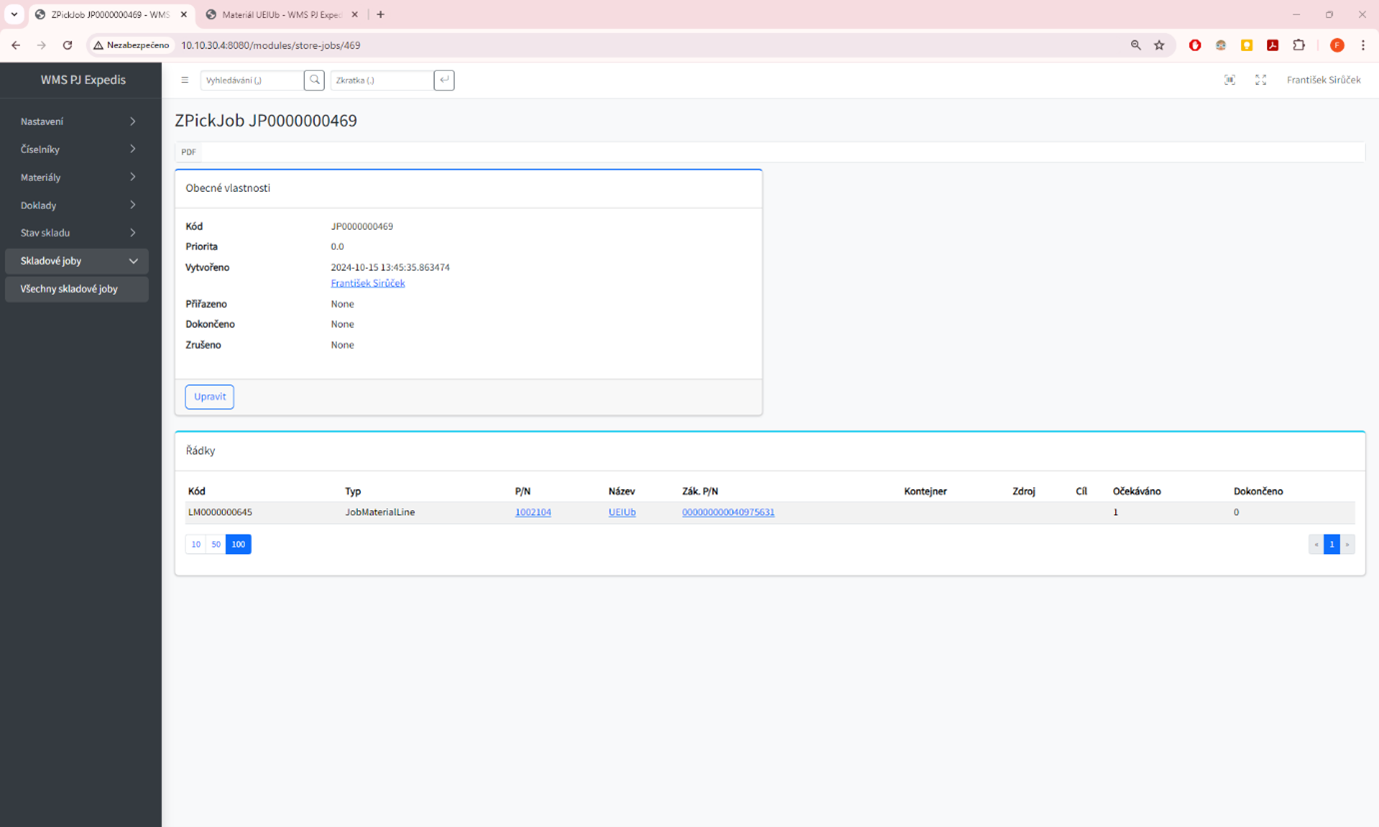
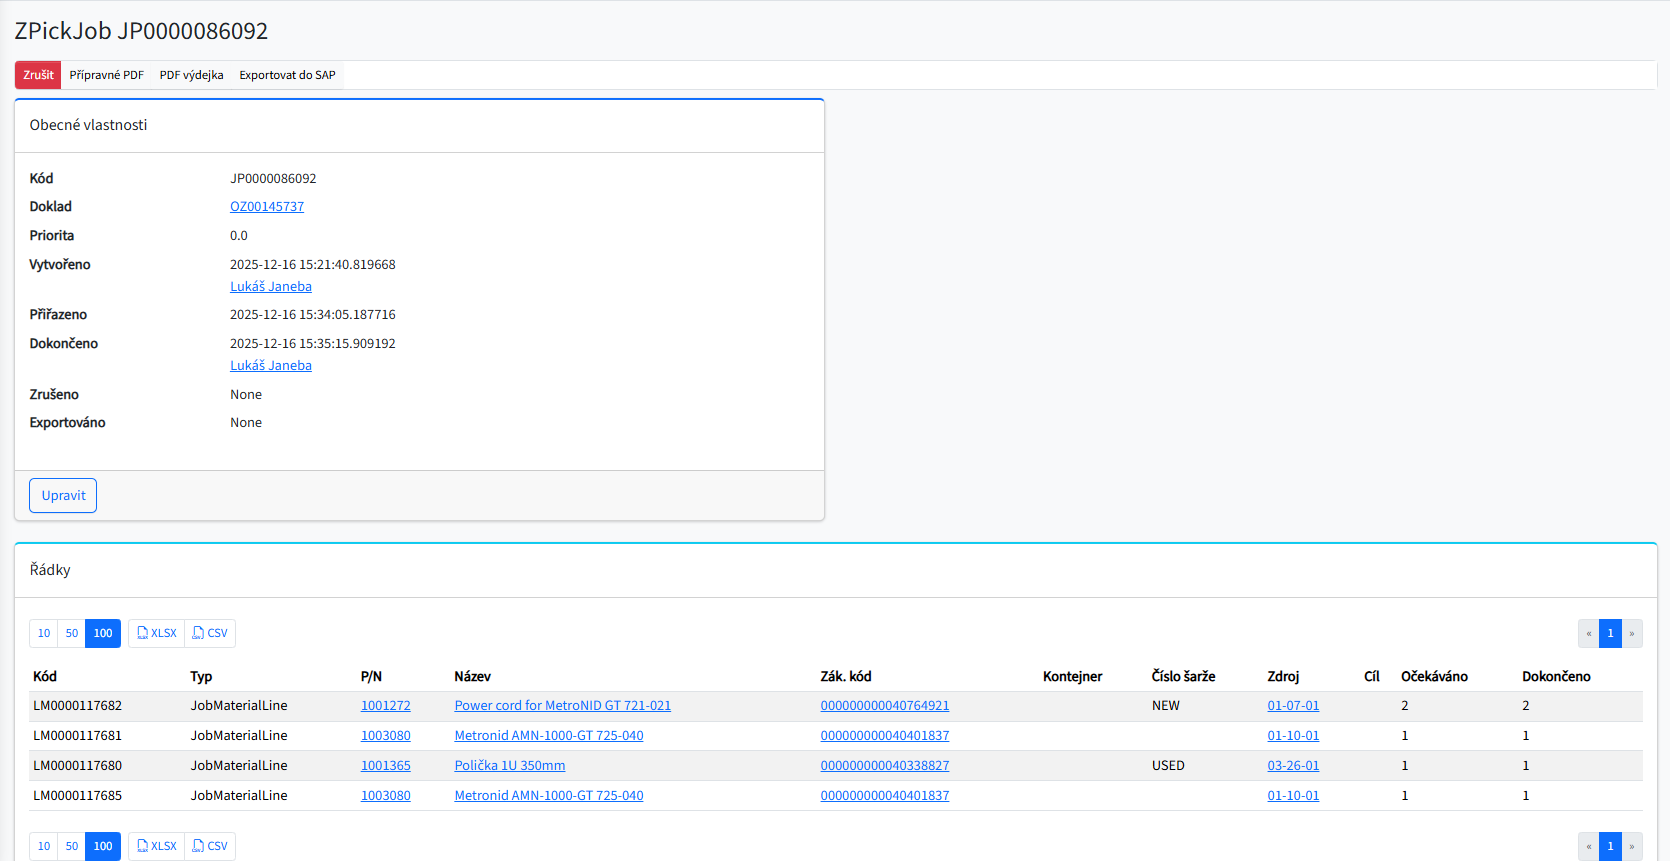
rozdělení výdejek na joby, upravy nad obj, upravy na joby

diff --git a/content/objednavky.md b/content/objednavky.md
@@ -19,6 +19,8 @@
 <h2 id="objednavky">Objednávky</h2>
 
 Ve skladu se proces objednávek řídí jasně definovanými postupy, které zahrnují příjem objednávek ze systému SAP, vychystávání (picking) zboží pomocí mobilních terminálů a zpětnou komunikaci vychystaného zboží zpět do SAPu.
+Objednávkou se rozumí doklad importovaná ze SAP. Buď CS Order a nebo Delivery. 
+Zpět do SAP se ale exportují nikoliv celé doklady ale jenotlivé joby. Job = práce ve skladu na dokladu. V ideálním případě 1 doklad = 1 job. V praxi ale může dojít k rozpadu jednoho dokladu na více jobů. (nelze u Delivery, ta nejde útovat na vícekrát). K rozpadu jobů může dojít například, pokud je zboží ve více zónách nebo doklad obsahuje zboží z více účetních skladů v různých zónách. Případně při aktivaci dodatečných jobl, kdy při první aktivaci nebylo vše dostupné a doklad se dovychystává později. (Opět nelze u Delivery. Tam se v takovém případě zaúčtuje doklad nekompletní a na zbytek položek se v SAP vytváří nová Delivery)
 
 <h3 id="prubeh-procesu-objednavek">Průběh procesu objednávek</h3>
 
@@ -67,6 +69,7 @@ Sloupce:
 - **Importovat ze SAPu:** Tlačítko pro manuální import nových objednávek ze SAPu.
 - **Vytvořit:** Tlačítko pro manuální vytvoření nové objednávky přímo v systému WMS, pokud je to potřeba.
 - **Aktivovat aktivovatelné objednávky:** Tlačítko pro hromadnou aktivaci všech objednávek, které jsou připraveny k aktivaci (objednávky, které mají zelený indikátor v kolonce „Aktivovatelné?").
+- **Vytvořit převod:** Slouží k vytvoření dokladu pro dvoukrokové přeskladnění mezi účetními sklady. Má samostatný návod.  
 
 **Funkčnost:**  
 Tato obrazovka slouží k přehledné správě všech objednávek ve skladu. Uživatel zde může sledovat stav jednotlivých objednávek, ověřovat, kdy byly vytvořeny, zda jsou aktivní a zda již byly dokončeny.
@@ -199,13 +202,6 @@ Tato obrazovka poskytuje detailní přehled jednotlivých řádků objednávek (
 
 Tato obrazovka zobrazuje detailní informace o konkrétní objednávce v systému WMS. V tomto případě se jedná o dokončenou objednávku, jejíž stav je plně zpracován a veškeré položky byly vychystány a odeslány.
 
-**Tlačítko PDF:**  
-V pravém horním rohu je tlačítko **PDF**, které umožňuje tisknout **skladovou výdejku** pro tuto objednávku. Výdejka obsahuje souhrnné informace o objednávce, které slouží jako doklad o vychystání zboží ze skladu.
-
-<a href="" data-bs-toggle="modal" data-bs-target="#imageModal" onclick="showImage('/content/images/doklady/objednavky/vydejka-pdf.png')">
-   <img src="/content/images/doklady/objednavky/vydejka-pdf.png" alt="Vytvoření objednávky" width="900" />
-</a>
-
 **Obecné vlastnosti:**
 - **Kód:** Unikátní identifikátor objednávky (např. "OZ00000328").
 - **Externí kód:** Externí číslo objednávky přiřazené systémem SAP (např. "7000246921").
@@ -240,13 +236,17 @@ Tato sekce ukazuje, jaké skladové joby byly v rámci objednávky vytvořeny a 
 - **Dokončil:** Jméno pracovníka, který job dokončil (např. "Jana Kreckova").
 - **Zrušeno a Zrušil:** Informace o případném zrušení jobu, pokud by k tomu došlo.
 
+**SAP Doklady:** 
+
+Zde se zobrazují SAP doklady. A zprávy k nim. Lze se tedy dostat k surovým datům, které poslal k daným MD systém SAP. V případě, že nastane nějaká chyba je vedle ještě okno SAP Chyby a zde je debug raw kod k chybám, které vrátil SAP do WMS pro hledání příčin. 
+
 **Význam obrazovky:**  
 Tato obrazovka poskytuje uživateli přehled o všech důležitých informacích týkajících se konkrétní objednávky. Je užitečná zejména pro kontrolu stavu objednávky, potvrzení, že všechny položky byly vychystány a odeslány, a pro následné vygenerování výdejky ve formě PDF, která může být přiložena k fyzickému zboží při expedici.
 
 V případě neaktivované objednávky vypadá horní lišta takto a objednávka lze aktivovat za splnění podmínek k aktivaci. Viz zde
 
 <a href="" data-bs-toggle="modal" data-bs-target="#imageModal" onclick="showImage('/content/images/doklady/objednavky/aktivace-tlacitkem.png')">
-   <img src="/content/images/doklady/objednavky/aktivace-tlacitkem.png" alt="Vytvoření objednávky" width="900" />
+   <img src="/content/images/doklady/objednavky/lista-neaktivni-objednavka.png" alt="Vytvoření objednávky" width="900" />
 </a>
 
 Aktivovaná ale nedokončená objednávka má pak tyto možnosti
@@ -258,6 +258,10 @@ Aktivovaná ale nedokončená objednávka má pak tyto možnosti
 **Zrušit (Červené tlačítko):**  
 - Toto tlačítko umožňuje zrušit celou objednávku. Po jeho stisknutí nebude objednávka dále zpracovávána, a tím pádem se žádná data neodešlou do systému SAP. Toto tlačítko by mělo být používáno opatrně, protože zrušená objednávka nelze znovu aktivovat.
 
+**Vynutit dokončení (Červené):**
+- Tlačítko vyditelné jen s příslušným oprávněním. Přepne doklad do stavu dokončeno i když standartní dokončení končí chybou a zrušení již není možné z důvodu vypickovaných jobů
+<span style="color: red;">❗ Zboží z takto dokončené objednávky zůstává vyskladněné z WMS ale nedošlo k vyskladnění v SAP. Je tedy potřeba zásoby srovnat. Buď dovyskladněním v SAPu nebo přijetím zboží zpět do WMS přes inventuru nebo interní příjemku</span>
+
 **Dokončit (Zelené tlačítko):**  
 - Toto tlačítko umožňuje dokončení objednávky. Dokončením se myslí odeslání informací o vychystání zboží zpět do systému SAP. Je možné dokončit objednávku i v případě, že nebyly všechny položky plně uspokojeny (např. nedostatek zásob na skladě). Před samotným dokončením se zobrazí potvrzovací dialog (viz druhý obrázek), kde se uživatel musí rozhodnout, zda skutečně chce objednávku dokončit.
 
@@ -265,12 +269,10 @@ Aktivovaná ale nedokončená objednávka má pak tyto možnosti
    <img src="/content/images/doklady/objednavky/dialog-dokoncit-objednavku.png" alt="Vytvoření objednávky" width="900" />
 </a>
 
-**PDF:**
--	Stisknutím tohoto tlačítka lze vygenerovat a stáhnout skladovou výdejku ve formátu PDF, která obsahuje detailní informace o objednávce, vychystaném zboží, a dalších logistických údajích. Tento dokument může být přiložen k zásilce nebo použit pro interní evidenci.
+**Aktivovat dodatečné joby (Zelené)**
+- Slouží k vytvoření jobů na položky, které při první aktivaci nebyly skladem. Tlačítko tedy vygeneruje nový job/y na položky, které lze pickovat ale při první aktivaci nešly a nejsou tedy součástí původních jobů
 
-<a href="" data-bs-toggle="modal" data-bs-target="#imageModal" onclick="showImage('/content/images/doklady/objednavky/vydejka-pdf.png')">
-   <img src="/content/images/doklady/objednavky/vydejka-pdf.png" alt="Vytvoření objednávky" width="900" />
-</a>
+
 
 
 <h3 id="pick-joby">Pick Joby</h3>
@@ -331,8 +333,18 @@ Tato část zobrazuje jednotlivé řádky pickovacího jobu. Každý řádek odp
 - **Dokončeno:** Počet kusů, které byly skutečně vychystány (zde 0, protože job zatím nebyl dokončen).
 
 **Tlačítka:**
-- **PDF:** Toto tlačítko umožňuje stáhnout nebo vytisknout souhrnnou dokumentaci k tomuto jobu ve formátu PDF.
+- **Přípravené PDF:** Vytiskne A4 formát skladové výdejky ve formátu PDF.
 
 <a href="" data-bs-toggle="modal" data-bs-target="#imageModal" onclick="showImage('/content/images/doklady/objednavky/job-pdf.png')">
    <img src="/content/images/doklady/objednavky/job-pdf.png" alt="Vytvoření objednávky" width="900" />
 </a>
+
+**PDF Výdejka:**
+-	Stisknutím tohoto tlačítka lze vygenerovat a stáhnout skladovou výdejku ve formátu PDF, která obsahuje detailní informace o objednávce, vychystaném zboží, a dalších logistických údajích. Tento dokument může být přiložen k zásilce nebo použit pro interní evidenci.
+
+<a href="" data-bs-toggle="modal" data-bs-target="#imageModal" onclick="showImage('/content/images/doklady/objednavky/vydejka-pdf.png')">
+   <img src="/content/images/doklady/objednavky/vydejka-pdf.png" alt="Vytvoření objednávky" width="900" />
+</a>
+
+**Exportovat do SAP**
+- je viditelné pouze u jobů, kde ještě nedošlo k exportování do SAP. Tlačítko odešle do SAP data materiálového dokladu a dokončí job. Obvykle se děje automaticky po načtení výdejové lokace. Toto slouží k řešení chyb, kdy na první pokus odeslání spadlo nebo se z jiného důvodu nepovedlo. 
